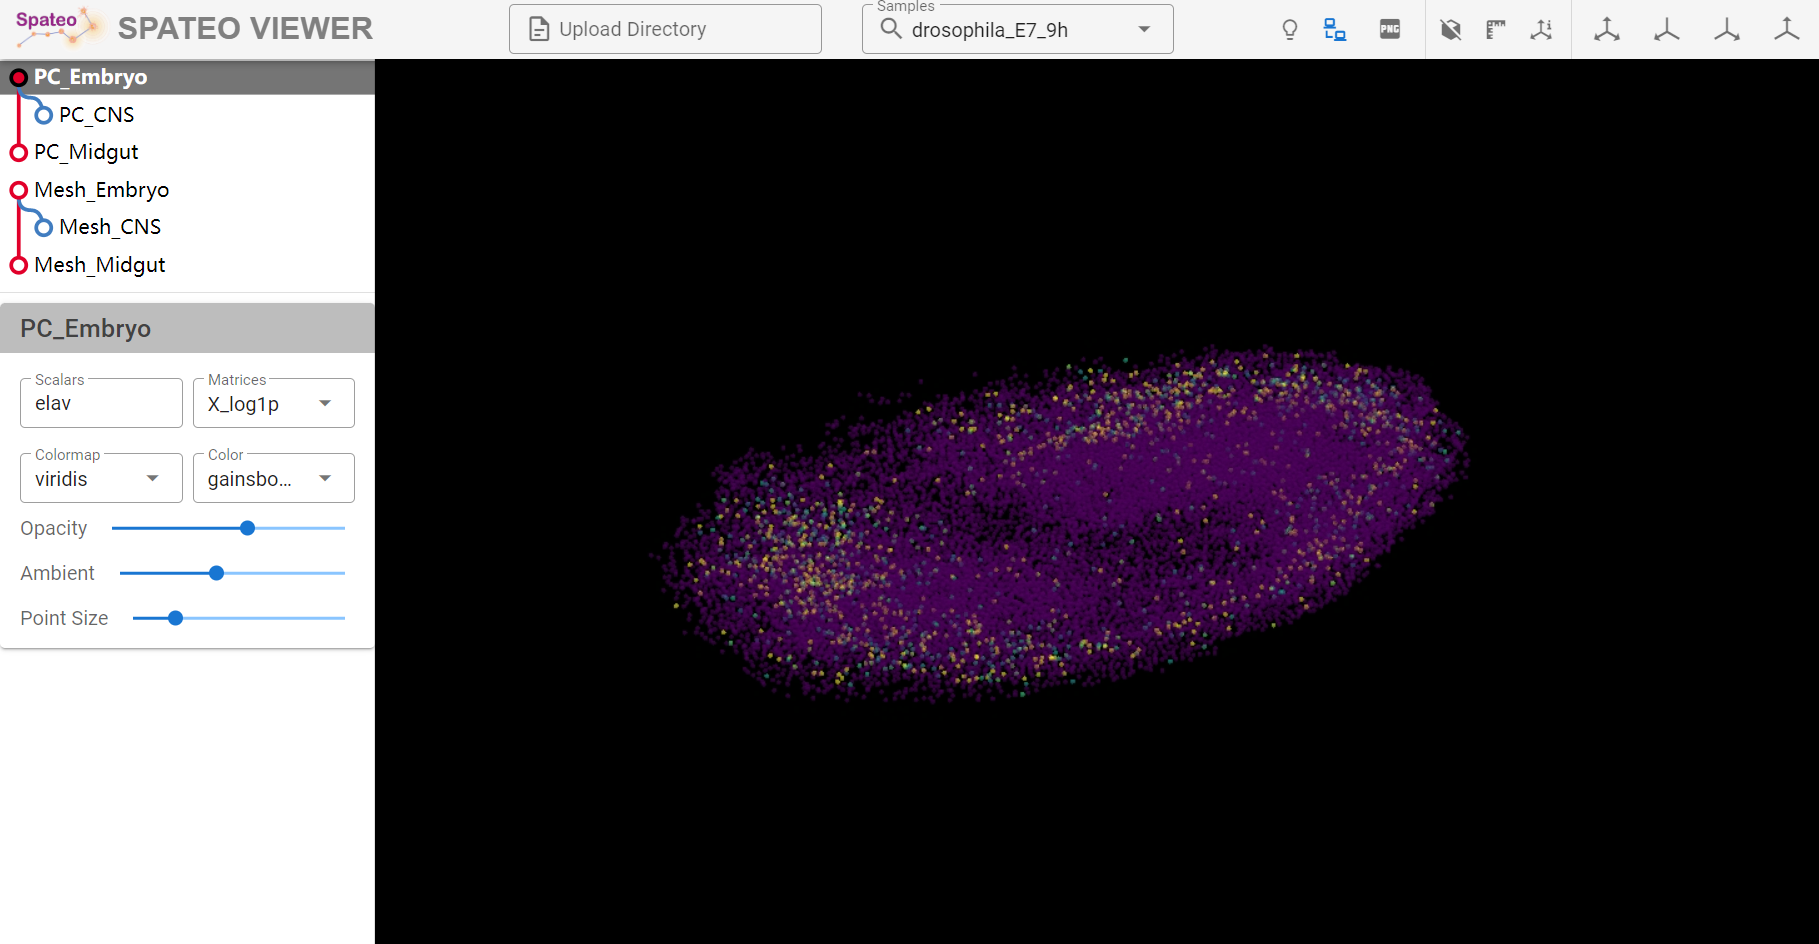
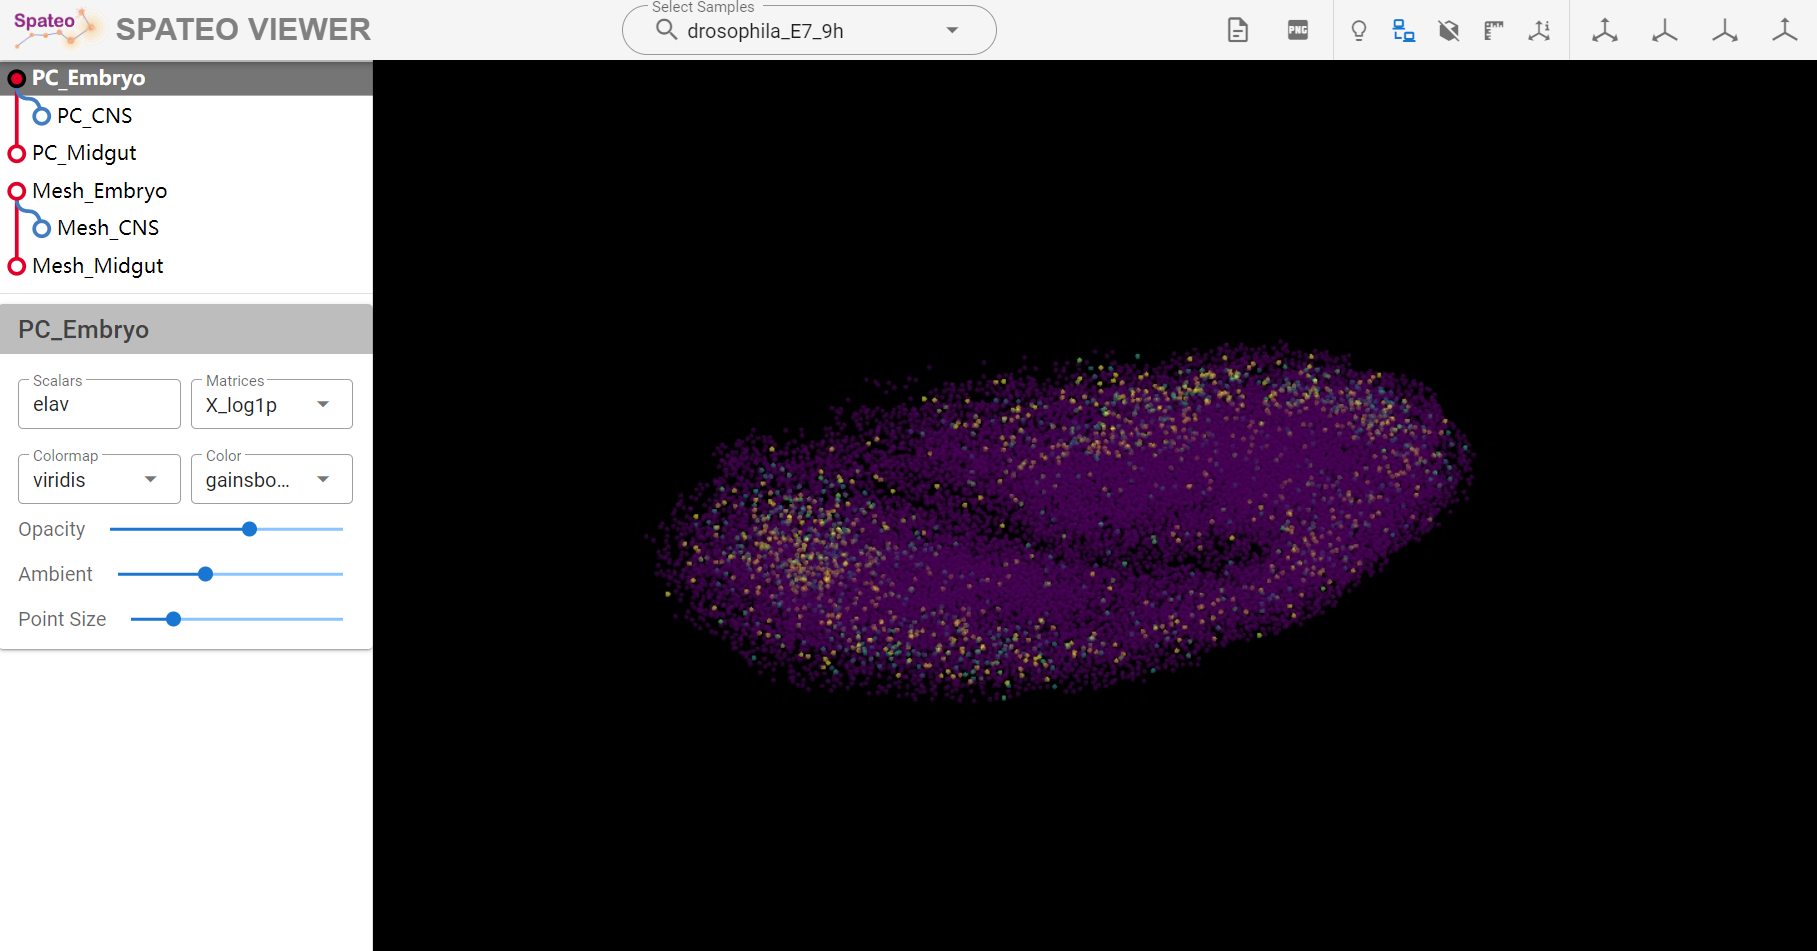
update toolbar

diff --git a/stviewer/ui/toolbar.py b/stviewer/ui/toolbar.py
@@ -177,14 +177,13 @@ class SwitchModels:
             plotter = self._init_plotter
         else:
             print(self._state[self.SELECT_SAMPLES])
-            print(local_dataset_manager[self._state[self.SELECT_SAMPLES]])
             (
                 adata,
                 pc_models,
                 pc_model_ids,
                 mesh_models,
                 mesh_model_ids,
-            ) = sample_dataset(path=local_dataset_manager[self._state[self.SELECT_SAMPLES]])
+            ) = sample_dataset(path=self._state[self.SELECT_SAMPLES])
             plotter, actors, actor_names, tree = drosophila_actors(
                 pc_models=pc_models,
                 pc_model_ids=pc_model_ids,
@@ -246,12 +245,15 @@ def switch_model(
         # rounded=True,
     )"""
 
+    avaliable_samples = [{"value": value, "text": key} for key, value in local_dataset_manager.get_assets().items()]
+    avaliable_samples.append({"value": server.state.selected_dir, "text": "uploaded_sample"})
+
     vuetify.VSpacer()
     SM = SwitchModels(server=server, plotter=plotter)
     vuetify.VSelect(
         label="Select Samples",
-        v_model=(SM.SELECT_SAMPLES, "drosophila_E7_9h"),
-        items=("select_samples", [key for key in local_dataset_manager.get_assets().keys()]),
+        v_model=(SM.SELECT_SAMPLES, {"value": local_dataset_manager.drosophila_E7_9h, "text": "drosophila_E7_9h"}),
+        items=("samples", avaliable_samples),
         dense=True,
         outlined=True,
         hide_details=True,
